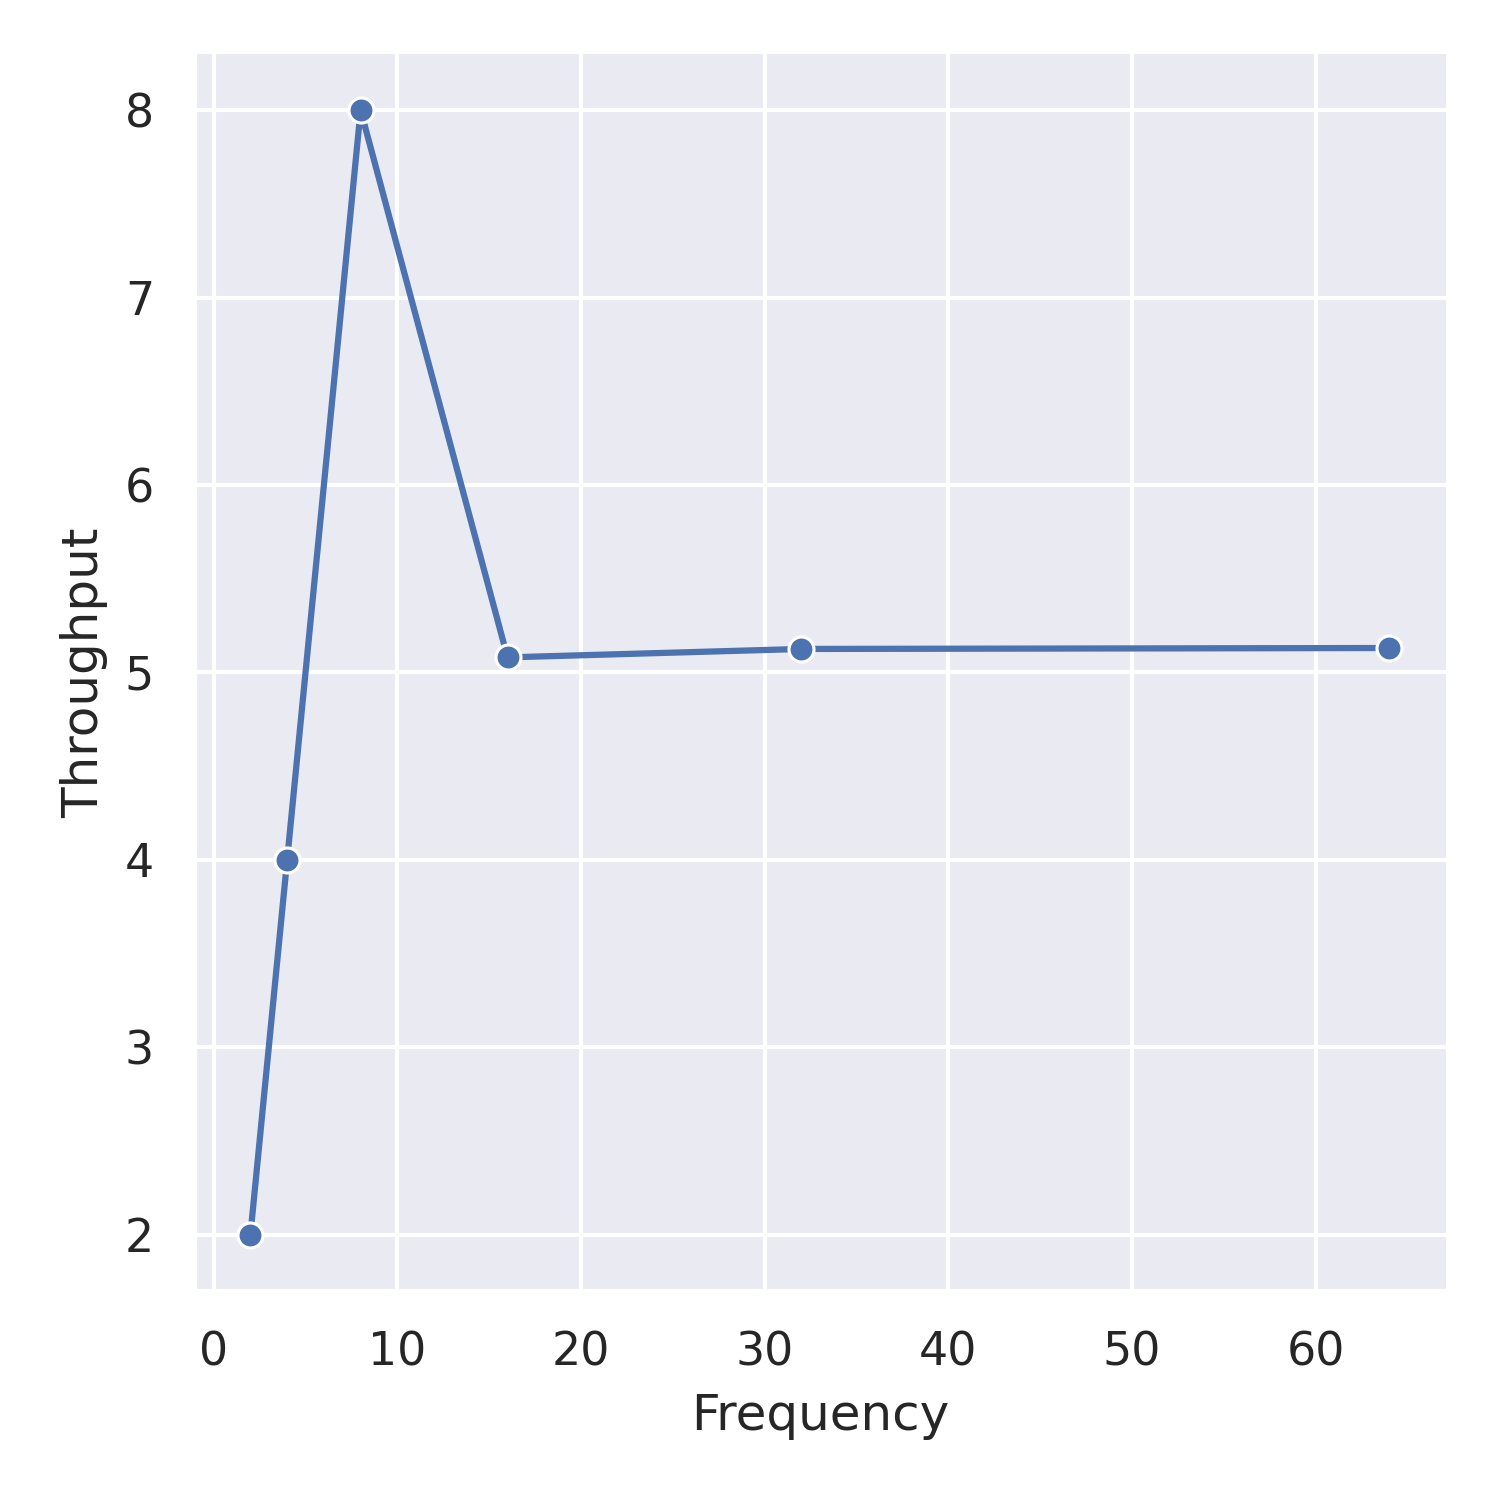
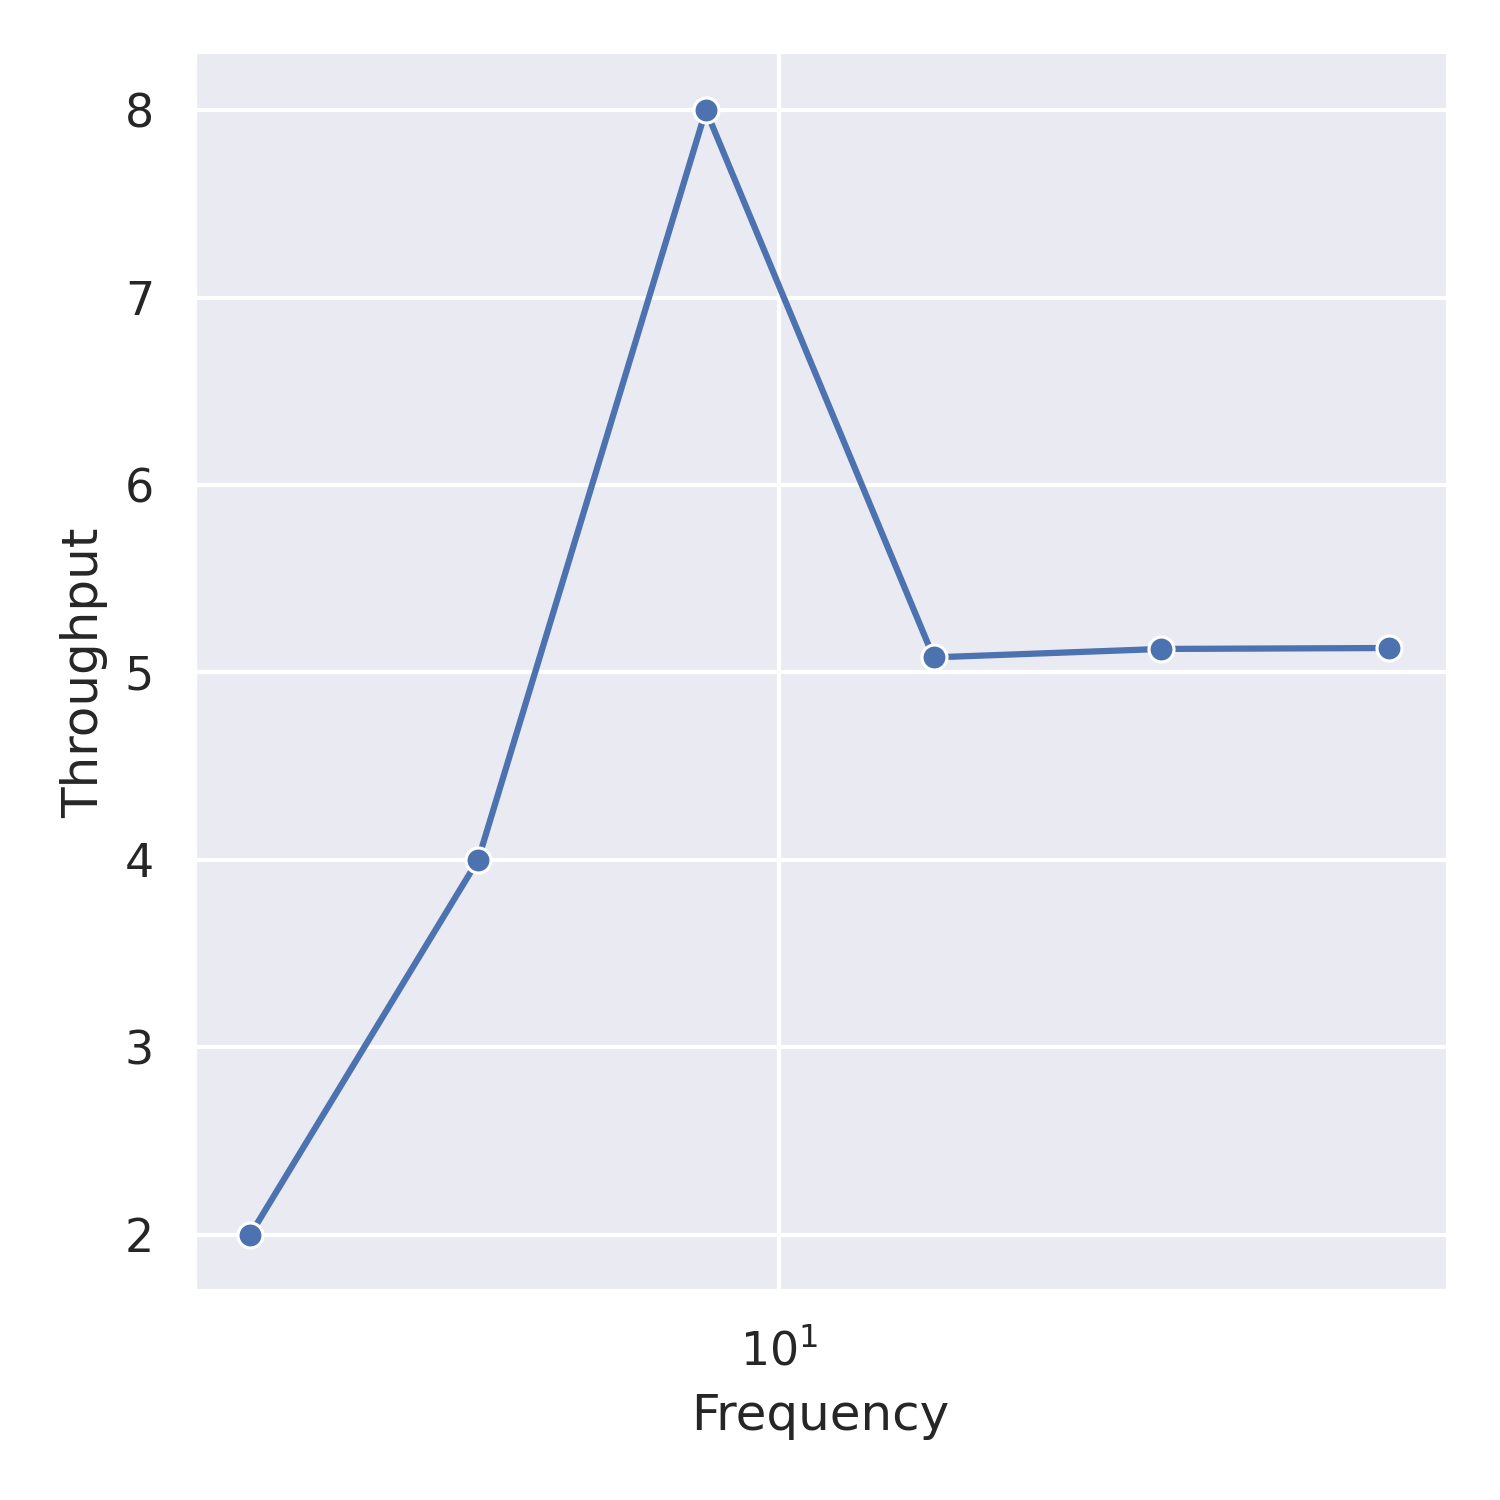
throughput graph with log scale

diff --git a/jupyter_notebook/generate_plots.py b/jupyter_notebook/generate_plots.py
@@ -30,9 +30,13 @@ def gen_plot_for_latency(data_file):
     sns.histplot(data=latency_df, x="latency", discrete=True)
     plt.savefig(data_file + "_hist.png", dpi=300)
 
-def gen_plot_for_tp(data_file):
+def gen_plot_for_tp(data_info):
+    data_file, description = data_info
     df = pd.read_csv(data_file+'.dat', delimiter=r'\s+')
-    sns.relplot(x="Frequency", y="Throughput", data=df, kind="line",marker='o')
+    rel = sns.relplot(x="Frequency", y="Throughput", data=df, kind="line",marker='o')
+#    rel.figure.suptitle(description)
+#    plt.title(description)
+    plt.xscale('log')
     plt.savefig(data_file + ".png", dpi=300)
 
 data_files = [
@@ -46,14 +50,13 @@ data_files = [
 for data_file in data_files:
     gen_plot_for_latency(data_file)
 
-data_files2 = [
-    "throughput_serial_best_effort",
-    "throughput_serial_reliable",
-#    "throughput_udp_reliable",
-    "throughput_wifi_best_effort",
-    "throughput_wifi_reliable",
+data_infos= [
+    ("throughput_serial_best_effort",'Conexión en serie, modo best-effort'),
+    ("throughput_serial_reliable",'Conexión en serie, modo reliable'),
+    ("throughput_wifi_best_effort",'Conexión Wi-Fi, modo best-effort'),
+    ("throughput_wifi_reliable", 'Conexión Wi-Fi, modo reliable'),
 ]
 
 
-for data_file in data_files2:
-    gen_plot_for_tp(data_file)
+for data_info in data_infos:
+    gen_plot_for_tp(data_info)
